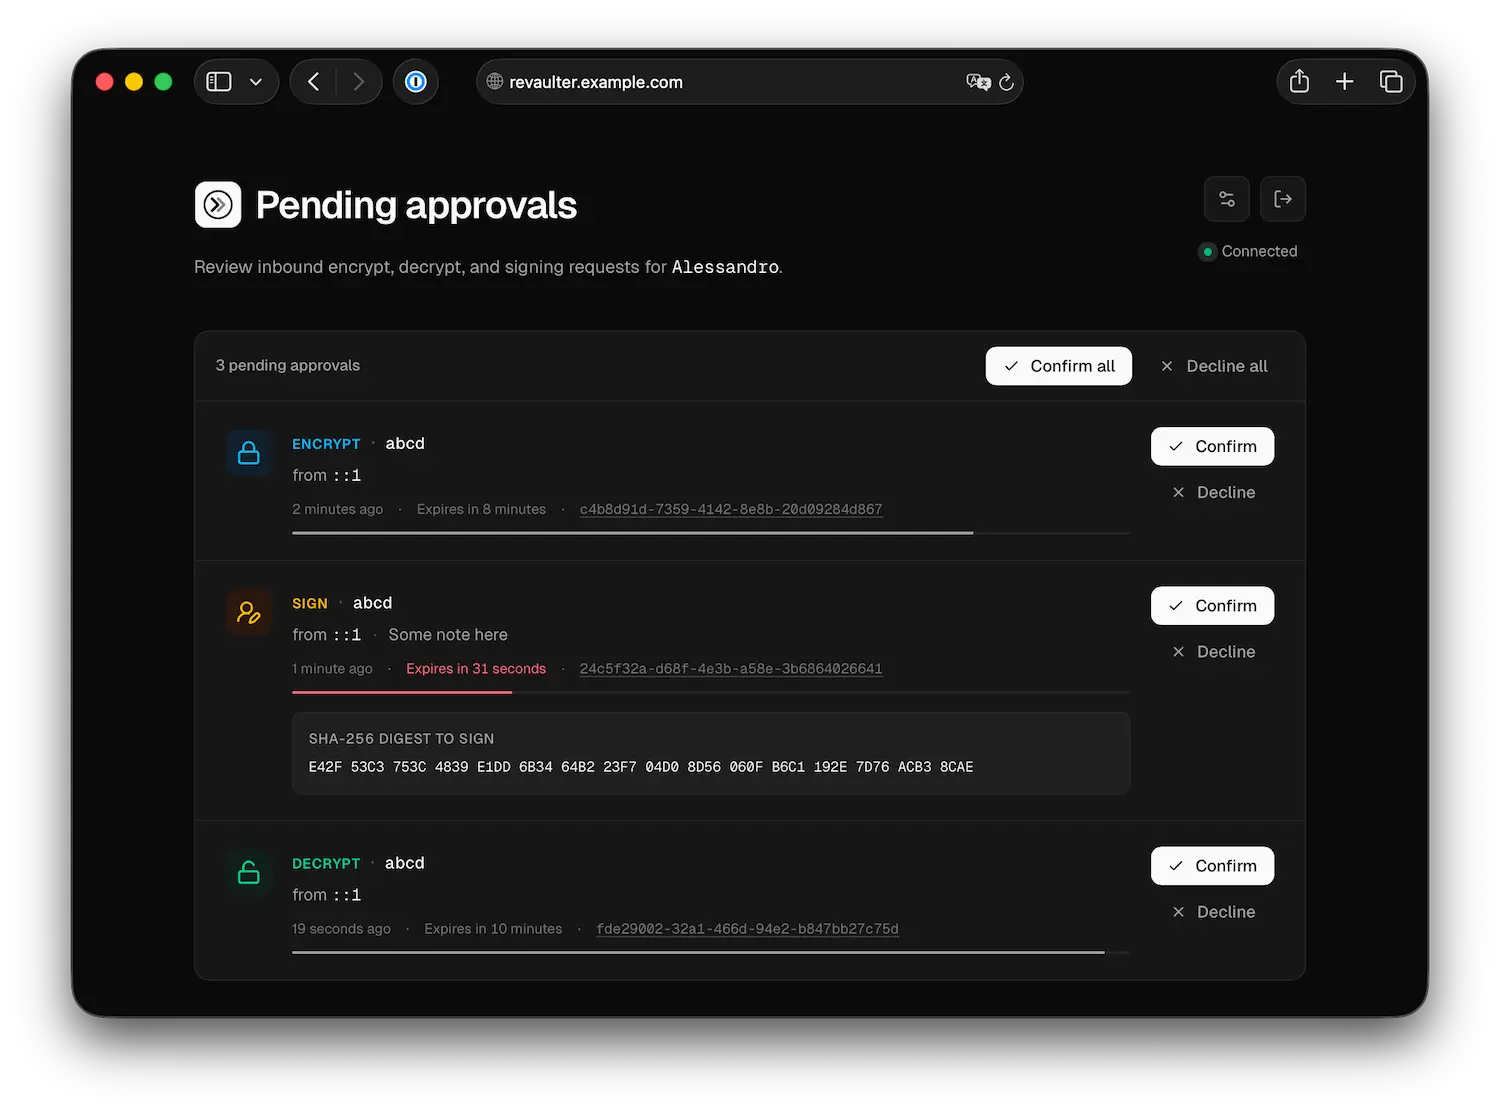
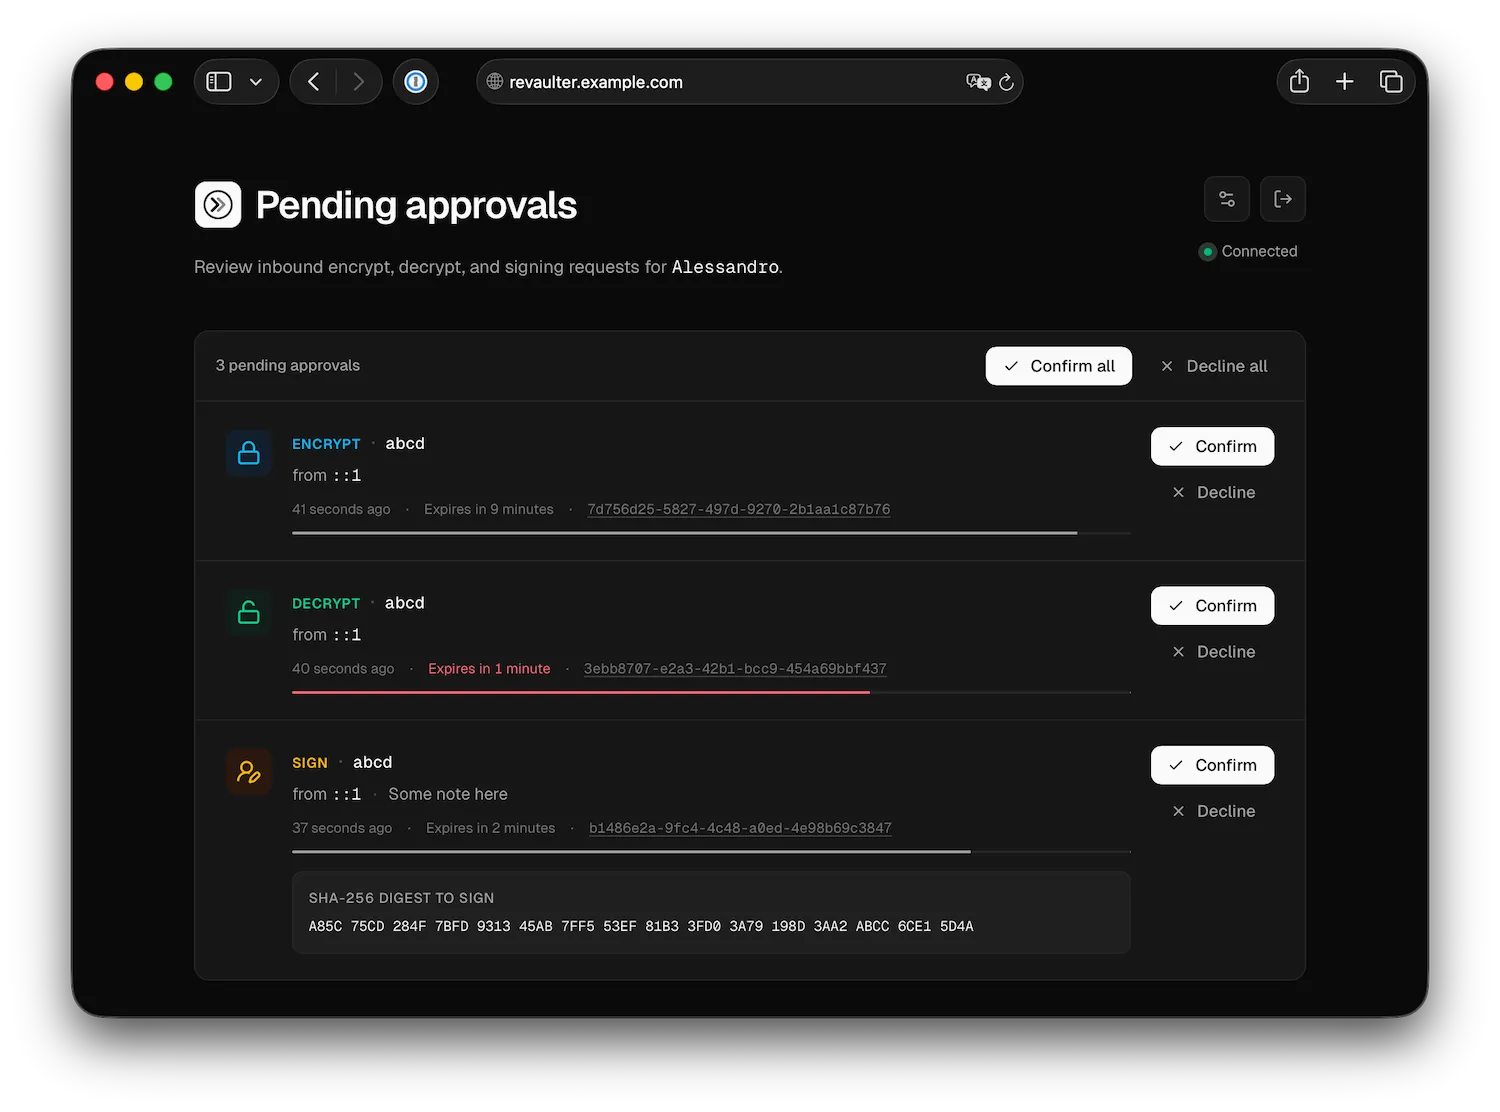
Update the timer in the UI every 5s

diff --git a/client/web/src/components/PendingItem.svelte b/client/web/src/components/PendingItem.svelte
@@ -1,5 +1,5 @@
 <script lang="ts">
-import { formatDistanceToNowStrict } from 'date-fns'
+import { formatDistanceStrict } from 'date-fns'
 
 import Button from '$components/Button.svelte'
 import Icon from '$components/Icon.svelte'
@@ -29,11 +29,12 @@ import type { V2PendingRequestItem, V2RequestDetail, V2ResponseEnvelope, V2Signi
 interface Props {
     bulkAction?: { id: number; action: 'confirm' | 'cancel' } | null
     item: V2PendingRequestItem
+    now: number
     primaryKey: Uint8Array
     onRemoved?: (state: string) => void
 }
 
-let { bulkAction = null, item, primaryKey, onRemoved }: Props = $props()
+let { bulkAction = null, item, now, primaryKey, onRemoved }: Props = $props()
 
 let working = $state(false)
 let localStatus = $state<string>('pending')
@@ -381,23 +382,11 @@ $effect(() => {
     })()
 })
 
-/** Ticking clock so age/expiry labels stay live */
-let now = $state(Date.now())
-$effect(() => {
-    const id = setInterval(() => {
-        now = Date.now()
-    }, 1000)
-    return () => clearInterval(id)
-})
-
 function expiresIn(item: V2PendingRequestItem) {
-    // Touch `now` so this re-computes every tick
-    void now
-    return formatDistanceToNowStrict(new Date(item.expiry * 1000), { addSuffix: true })
+    return formatDistanceStrict(new Date(item.expiry * 1000), new Date(now), { addSuffix: true })
 }
 
 function ttlPercent(item: V2PendingRequestItem) {
-    void now
     const total = (item.expiry - item.date) * 1000
     if (total <= 0) {
         return 0
@@ -407,13 +396,11 @@ function ttlPercent(item: V2PendingRequestItem) {
 }
 
 function ttlIsLow(item: V2PendingRequestItem) {
-    void now
     return item.expiry * 1000 - now < 120_000
 }
 
 function ageLabel(item: V2PendingRequestItem) {
-    void now
-    return formatDistanceToNowStrict(new Date(item.date * 1000), { addSuffix: true })
+    return formatDistanceStrict(new Date(item.date * 1000), new Date(now), { addSuffix: true })
 }
 
 let meta = $derived(OP_META[item.operation])

diff --git a/client/web/src/components/ReadyView.svelte b/client/web/src/components/ReadyView.svelte
@@ -76,7 +76,15 @@ let {
 let settingsModalOpen = $state(false)
 let settingsButton: HTMLButtonElement | undefined = $state()
 let bulkAction = $state<{ id: number; action: 'confirm' | 'cancel' } | null>(null)
+let now = $state(Date.now())
 let bulkActionId = 0
+
+$effect(() => {
+    const id = setInterval(() => {
+        now = Date.now()
+    }, 5000)
+    return () => clearInterval(id)
+})
 
 function toggleSettingsModal() {
     settingsModalOpen = !settingsModalOpen
@@ -210,6 +218,7 @@ function rejectAll() {
                         <PendingItem
                             {bulkAction}
                             {item}
+                            {now}
                             {primaryKey}
                             onRemoved={onRemoveItem}
                         />
